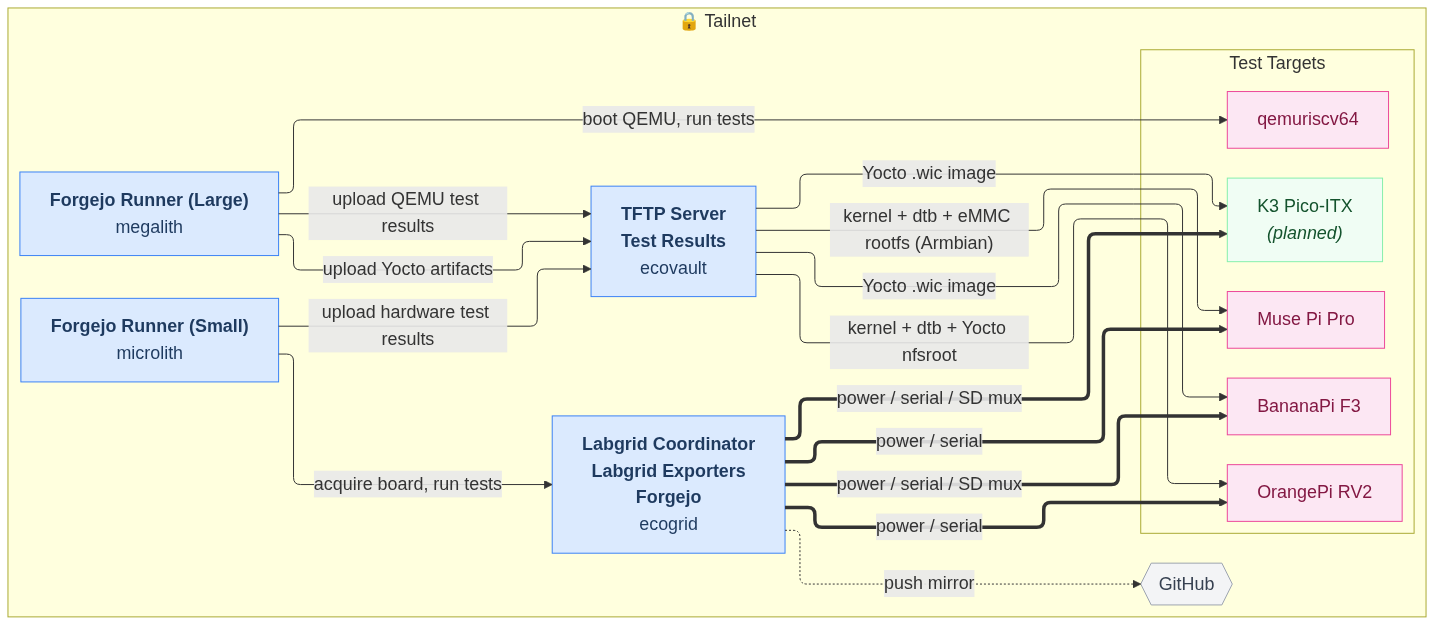
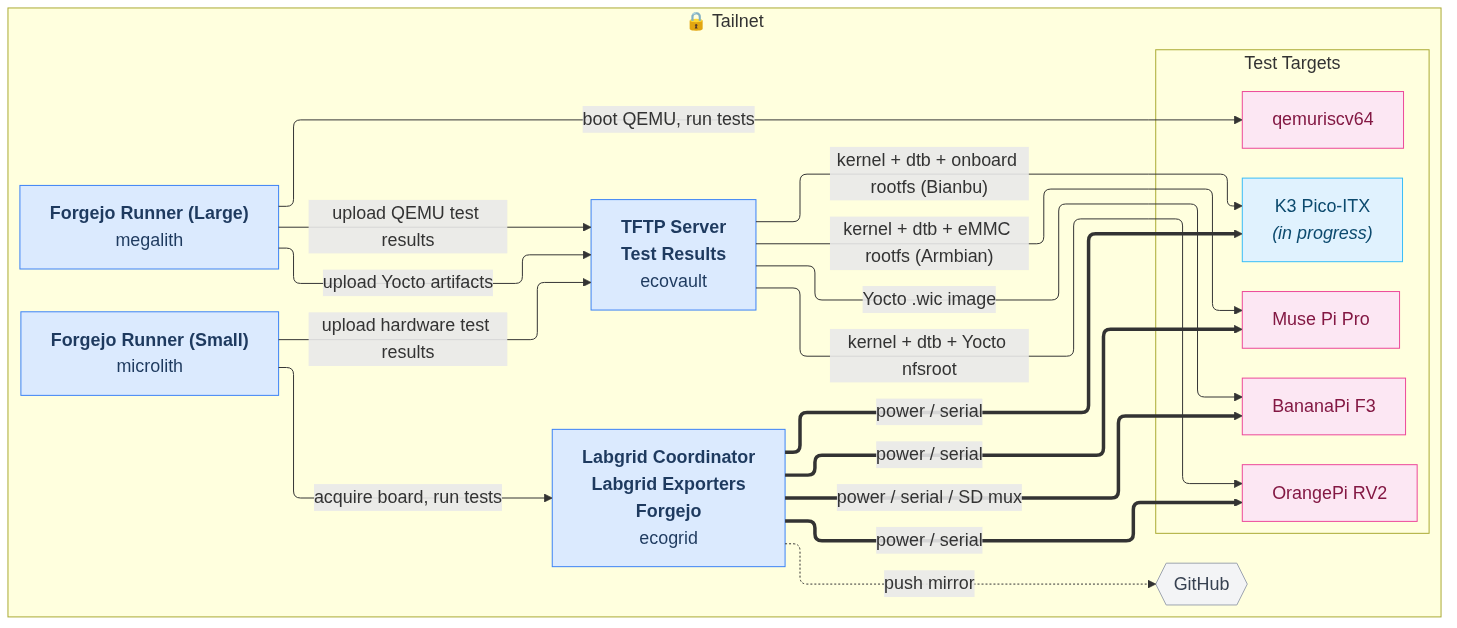
docs: update network, bom

diff --git a/docs/bom.md b/docs/bom.md
@@ -33,7 +33,7 @@
 | `board_2` | Muse Pi Pro | SpacemiT | [Muse Pi Pro](https://www.spacemit.com/muse-pi-pro/) | riscv64 (RVA22 + RVV 1.0) | serial + power | active |
 | `board_3` | OrangePi RV2 | OrangePi | [OrangePi RV2](http://www.orangepi.org/html/hardWare/computerAndMicrocontrollers/details/Orange-Pi-RV2.html) | riscv64 (RVA22 + RVV 1.0) | serial + power | active |
 | `board_4` | qemuriscv64 | QEMU | RVA23S64 | riscv64 (RVA23) | virtual | active |
-| `board_5` | K3 Pico-ITX | Sipeed | [K3 Pico-ITX](https://sipeed.com/k3) | riscv64 (RVA23) | serial + power + sd mux | planned |
+| `board_5` | K3 Pico-ITX | Sipeed | [K3 Pico-ITX](https://sipeed.com/k3) | riscv64 (RVA23) | serial + power | in progress |
 
 ### BananaPi F3
 
@@ -63,4 +63,3 @@
 |-----------|------|-------------|------|
 | power | [BayLibre CoPilot](https://baylibre.com/copilot/) | BayLibre_Copilot_Lite_V1.2 | Power control |
 | serial | [Raspberry Pi Debug Probe](https://www.raspberrypi.com/products/debug-probe/) | Debug_Probe__CMSIS-DAP_0101 | USB-to-UART bridge |
-| SD mux | [USB SD Mux](https://linux-automation.com/en/products/usb-sd-mux.html) | usb-sd-mux_rev4.0 | USB SD Mux controller |
